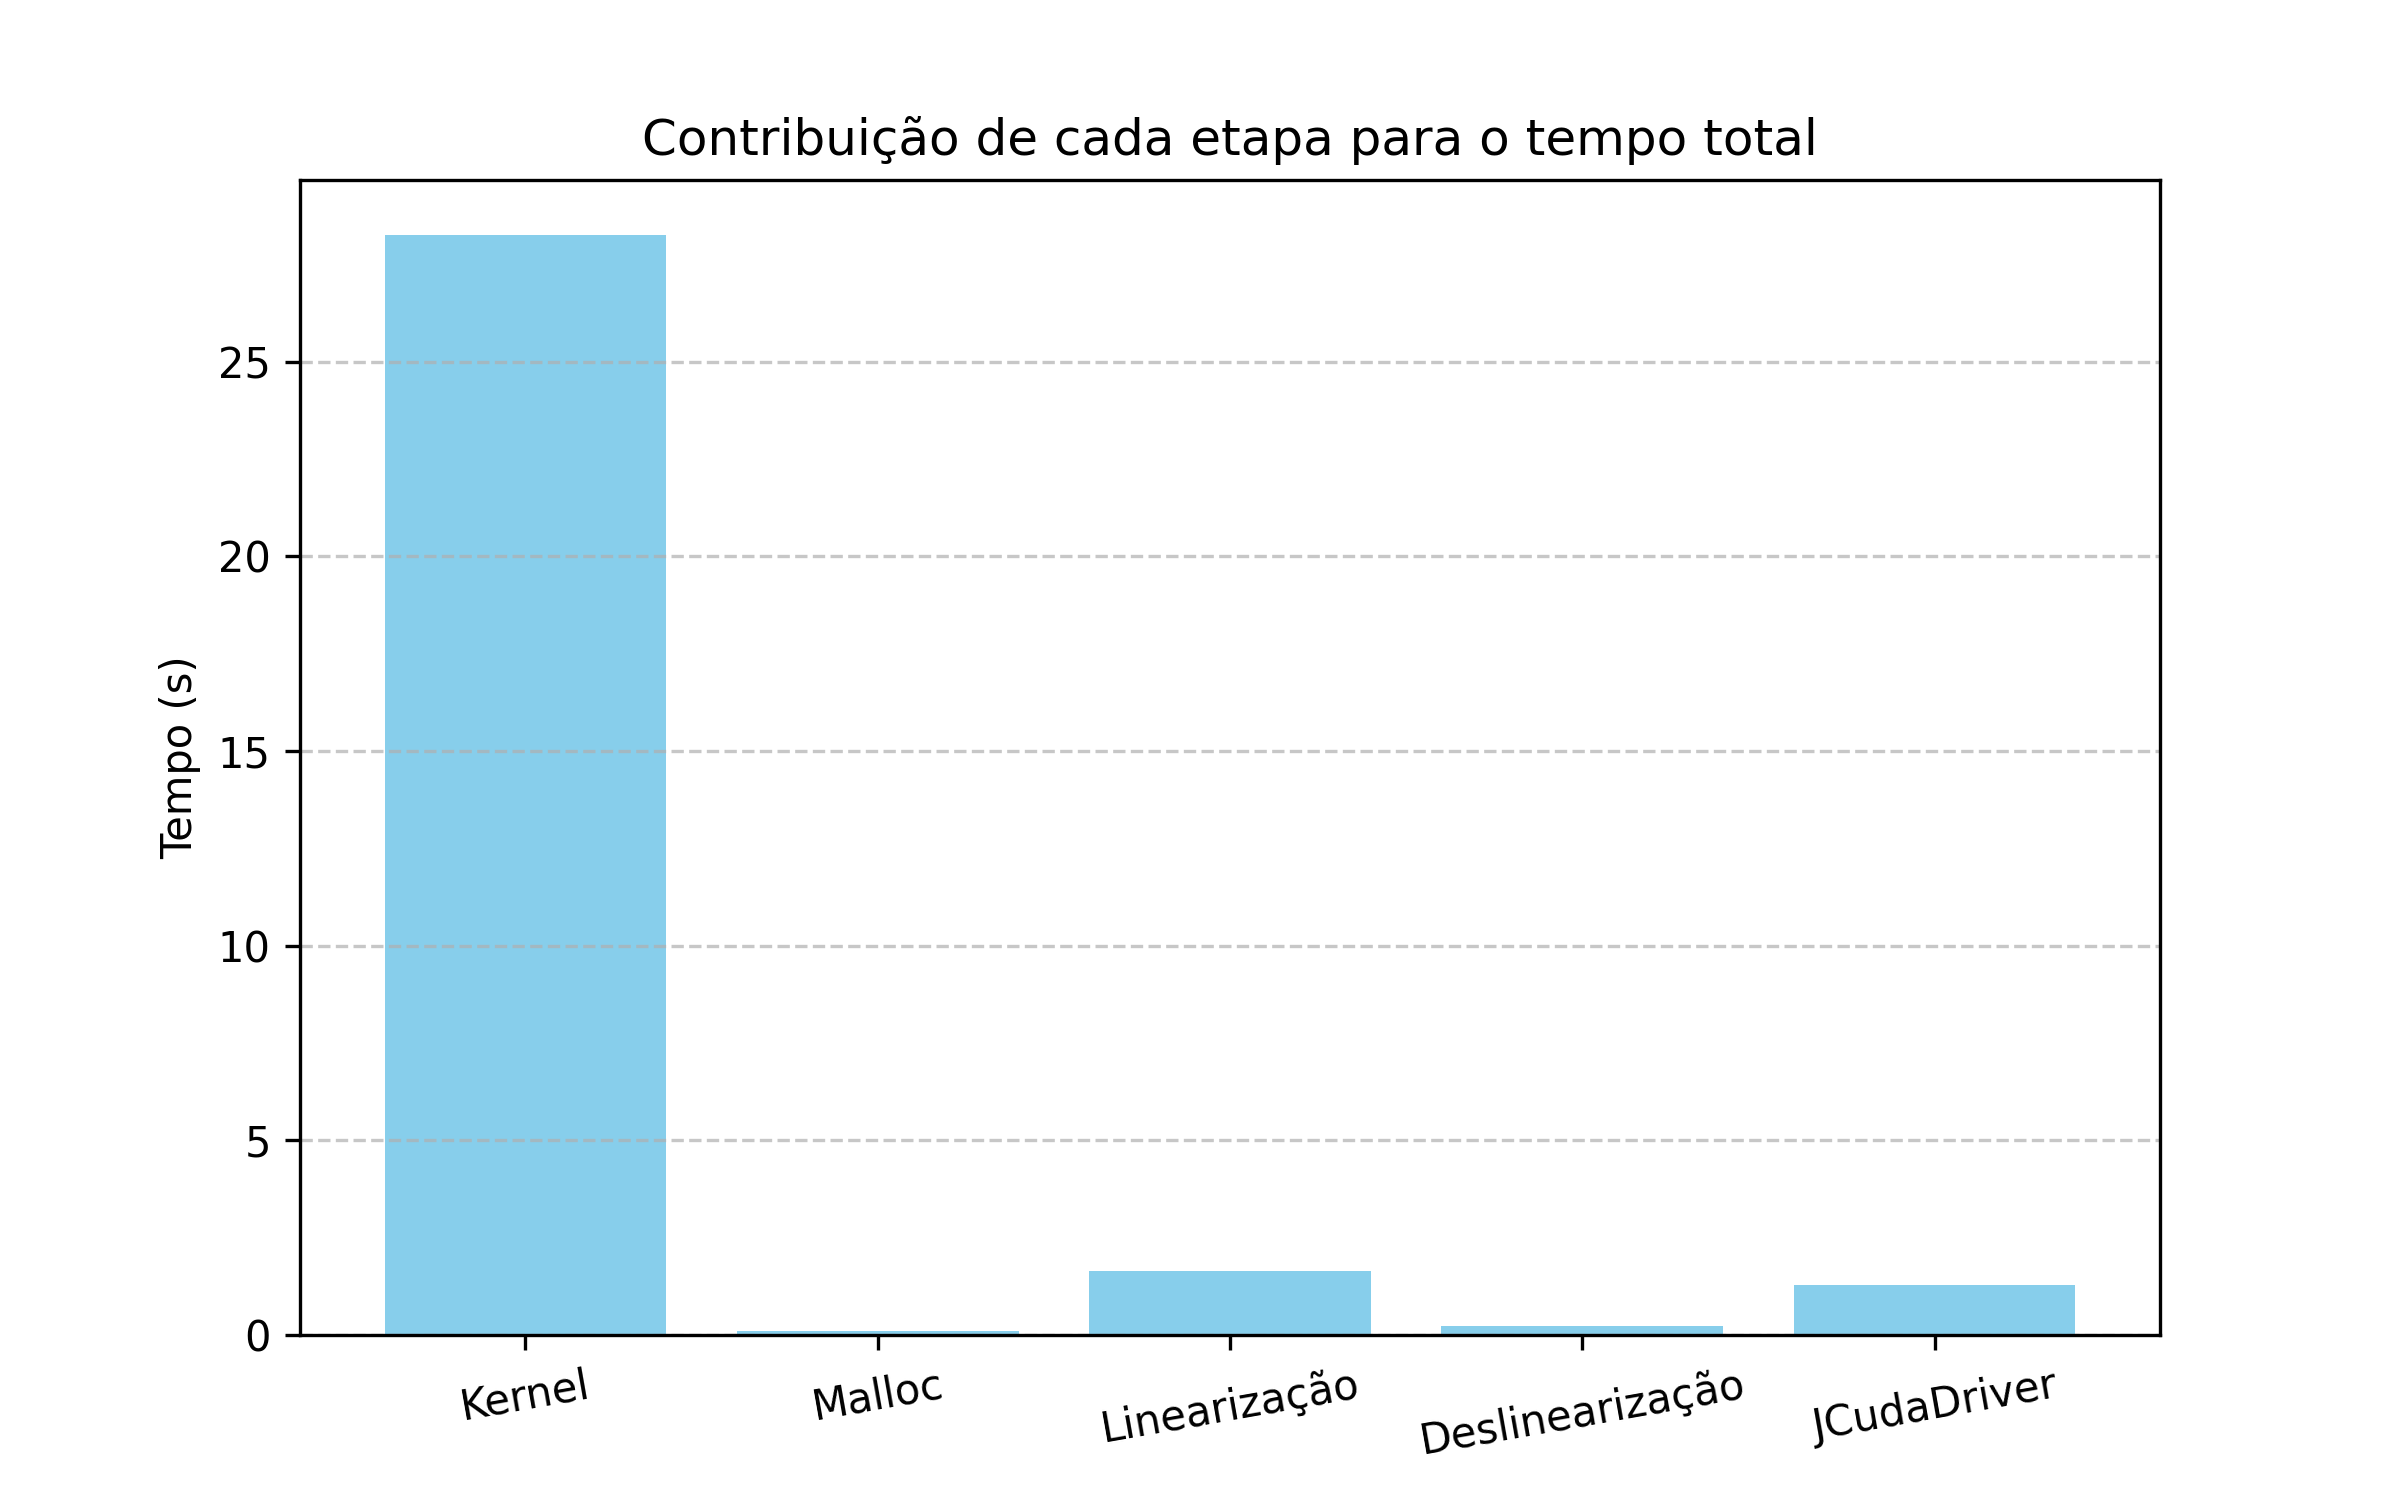
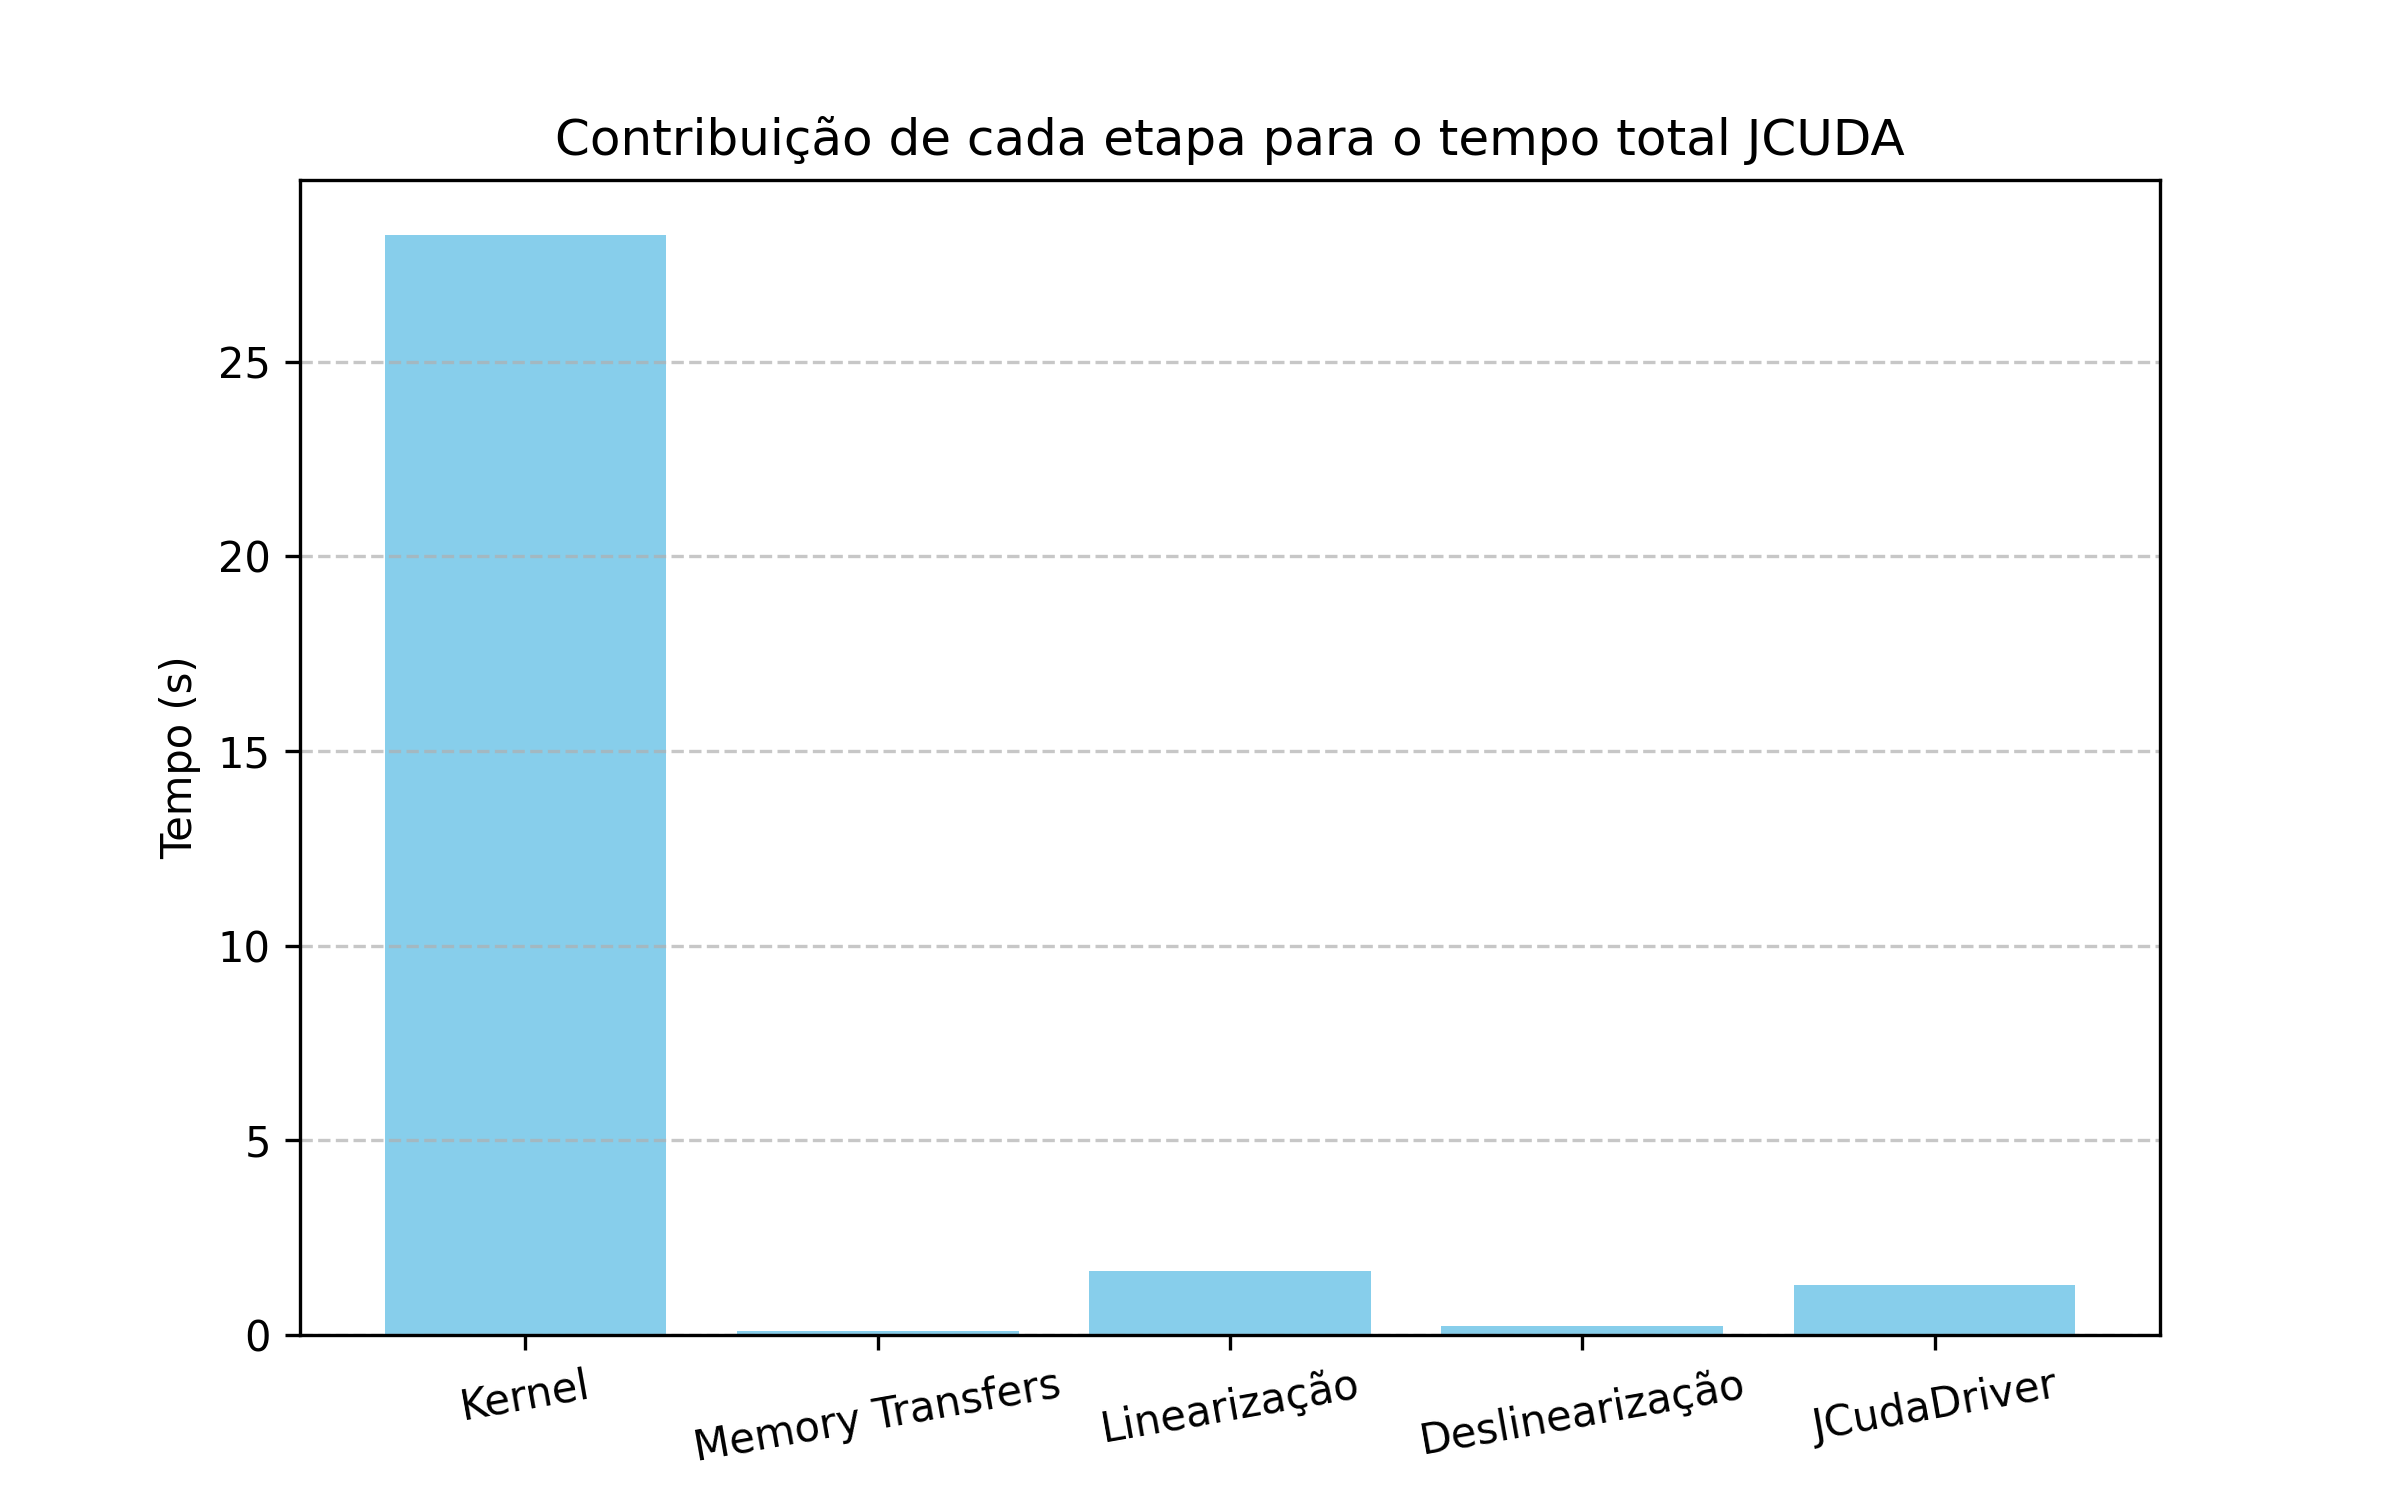
feat: resultados

Changed region(s): [[0.25, 0.0613, 0.7812, 0.1227], [0.2812, 0.92, 0.4375, 0.9813]]

diff --git a/graphics.py b/graphics.py
@@ -6,10 +6,10 @@ tempos_serial_java = [ ] # kernel
 tempos_paralelo = [ ]  # kernel
 tempos_paralelo_jcuda = [ ]  # kernel
 
-# tempos_serial = [318.261150, 318.261150, 318.261150, 318.261150, 318.261150 ] # total
-# tempos_serial_java = [390.907917, 402.007764, 391.601574, 396.918816, 394.149500] # total
-# tempos_paralelo = [26.668809, 26.566759, 26.527186, 27.059151, 26.509537 ] # total
-# tempos_paralelo_jcuda = [31.455419, 31.563263, 31.287826, 31.459561, 31.819042] # total
+tempos_serial = [318.261150, 318.261150, 318.261150, 318.261150, 318.261150 ] # total
+tempos_serial_java = [390.907917, 402.007764, 391.601574, 396.918816, 394.149500] # total
+tempos_paralelo = [26.668809, 26.566759, 26.527186, 27.059151, 26.509537 ] # total
+tempos_paralelo_jcuda = [31.455419, 31.563263, 31.287826, 31.459561, 31.819042] # total
 
 media_serial = np.mean(tempos_serial)
 media_serial_java = np.mean(tempos_serial_java)
@@ -77,14 +77,20 @@ plt.savefig("./resultados/speedup-kernel.png", dpi=300)
 #     "Linearização": np.mean([ ]),
 #     "Deslinearização": np.mean([ ])
 # }
-tempos_jcuda = {
-    "Memory Transfers": np.mean([ ]),
+tempos_jcuda = { 
     "Kernel": np.mean([27.916958, 28.403587, 28.227065, 28.195507, 28.513576]),
-    "Malloc": np.mean([0.142848, 0.099479, 0.088403, 0.094375, 0.131267]),
+    "Memory Transfers": np.mean([0.142848, 0.099479, 0.088403, 0.094375, 0.131267]),
     "Linearização": np.mean([1.761504, 1.612835, 1.546741, 1.651673, 1.642119]),
     "Deslinearização": np.mean([0.213142, 0.214917, 0.211059, 0.261270, 0.212357]),
     "JCudaDriver": np.mean([1.420576, 1.232160, 1.214255, 1.256457, 1.319346])
 }
+
+# tempos_cuda = {
+#     "Kernel": np.mean([24.927875, 24.949061, 24.930720, 24.968140, 24.902483]),
+#     "Memory Transfers": np.mean([0.209460, 0.209048, 0.209069, 0.209397, 0.210827]),
+#     "Linearização": np.mean([1.103617, 0.978846, 0.962170, 1.292542, 0.961996]),
+#     "Deslinearização": np.mean([0.222016, 0.222374, 0.221895, 0.228050, 0.225564])
+# }
  
 # Preparar dados
 etapas = list(tempos_jcuda.keys())
@@ -96,8 +102,8 @@ percentuais = [v / total * 100 for v in valores]
 
 plt.figure(figsize=(8,5))
 plt.bar(etapas, valores, color='skyblue')
-plt.title("Contribuição de cada etapa para o tempo total")
+plt.title("Contribuição de cada etapa para o tempo total JCUDA")
 plt.ylabel("Tempo (s)")
 plt.xticks(rotation=10)
 plt.grid(axis="y", linestyle="--", alpha=0.7)
-# plt.savefig("./resultados/tempo-etapa-jcuda.png", dpi=300)
+plt.savefig("./resultados/tempo-etapa-jcuda.png", dpi=300)
